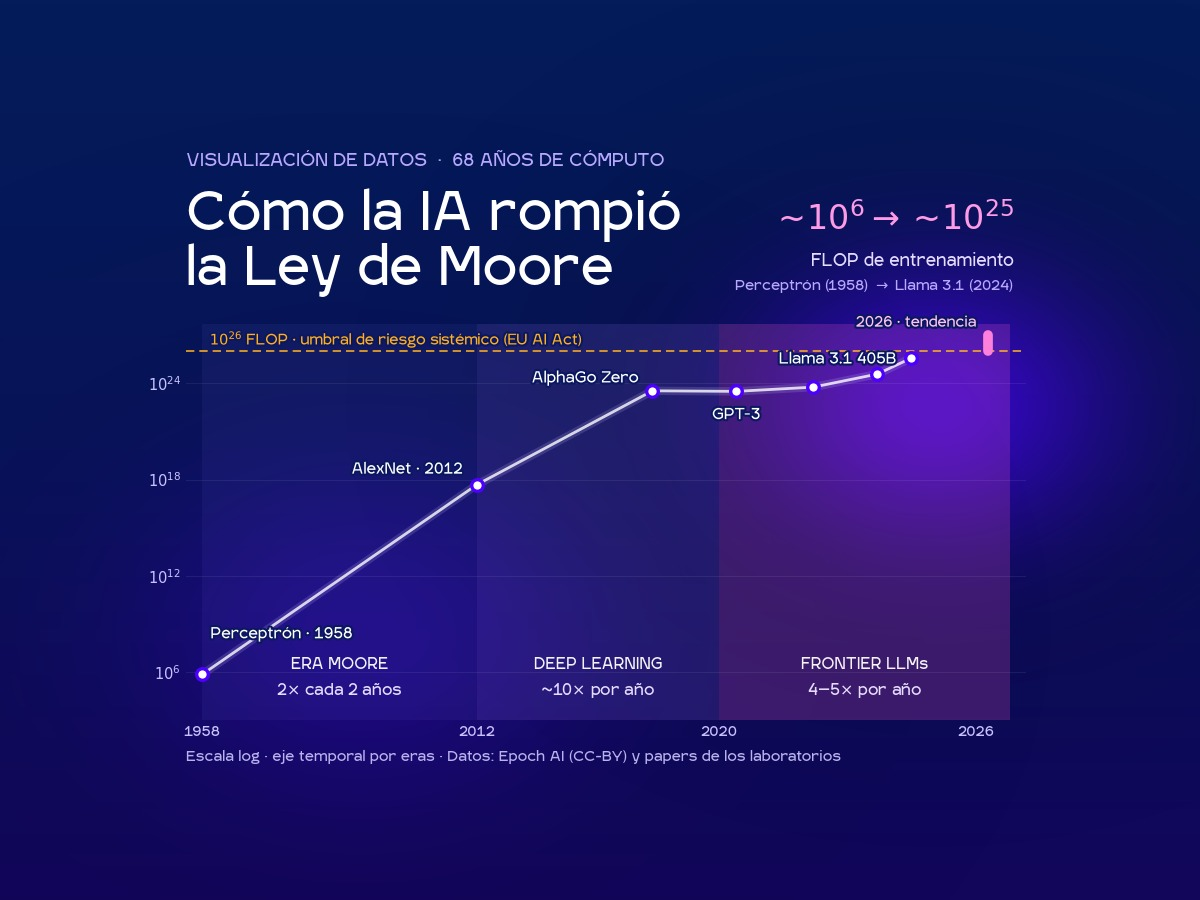
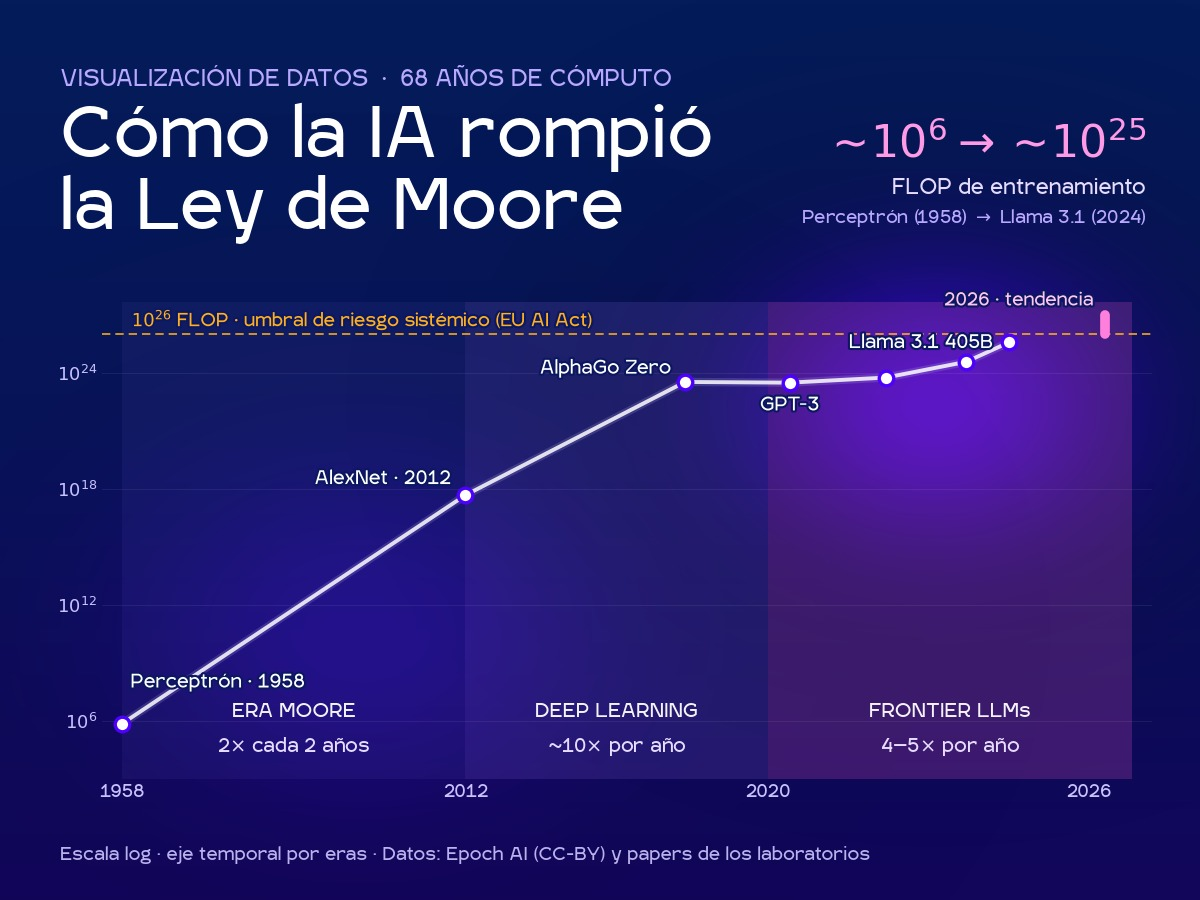
Hero Ley de Moore: version a lienzo completo + object-fit contain

diff --git a/index.html b/index.html
@@ -2209,7 +2209,7 @@ html,body{overflow-x:clip}                      /* red de seguridad: cero scroll
       </article>
       <article class="showcase-hero showcase-wide card reveal">
         <a class="showcase-thumb" href="https://dashboards.javierforero.co/ia-compute/" target="_blank" rel="noopener" aria-label="Abrir la visualización: cómo la IA rompió la Ley de Moore, 1958–2026">
-          <img src="https://cv.javierforero.co/ia-compute-hero.jpg" width="1200" height="900" loading="lazy" alt="Visualización del cómputo de entrenamiento en IA entre 1958 y 2026, en escala logarítmica, con 72 modelos y su nivel de evidencia">
+          <img src="https://cv.javierforero.co/ia-compute-hero.jpg" width="1200" height="900" loading="lazy" style="object-fit:contain;background:linear-gradient(#041c59,#12065a)" alt="Visualización del cómputo de entrenamiento en IA entre 1958 y 2026, en escala logarítmica, con 72 modelos y su nivel de evidencia">
         </a>
         <div class="showcase-body">
           <div class="ptype" data-en="Data visualization · evidence-based storytelling">Visualización de datos · divulgación con evidencia</div>

diff --git a/en.html b/en.html
@@ -2210,7 +2210,7 @@ html,body{overflow-x:clip}                      /* red de seguridad: cero scroll
       </article>
       <article class="showcase-hero showcase-wide card reveal">
         <a class="showcase-thumb" href="https://dashboards.javierforero.co/ia-compute/" target="_blank" rel="noopener" aria-label="Abrir la visualización: cómo la IA rompió la Ley de Moore, 1958–2026">
-          <img src="https://cv.javierforero.co/ia-compute-hero.jpg" width="1200" height="900" loading="lazy" alt="Visualización del cómputo de entrenamiento en IA entre 1958 y 2026, en escala logarítmica, con 72 modelos y su nivel de evidencia">
+          <img src="https://cv.javierforero.co/ia-compute-hero.jpg" width="1200" height="900" loading="lazy" style="object-fit:contain;background:linear-gradient(#041c59,#12065a)" alt="Visualización del cómputo de entrenamiento en IA entre 1958 y 2026, en escala logarítmica, con 72 modelos y su nivel de evidencia">
         </a>
         <div class="showcase-body">
           <div class="ptype">Data visualization · evidence-based storytelling</div>
